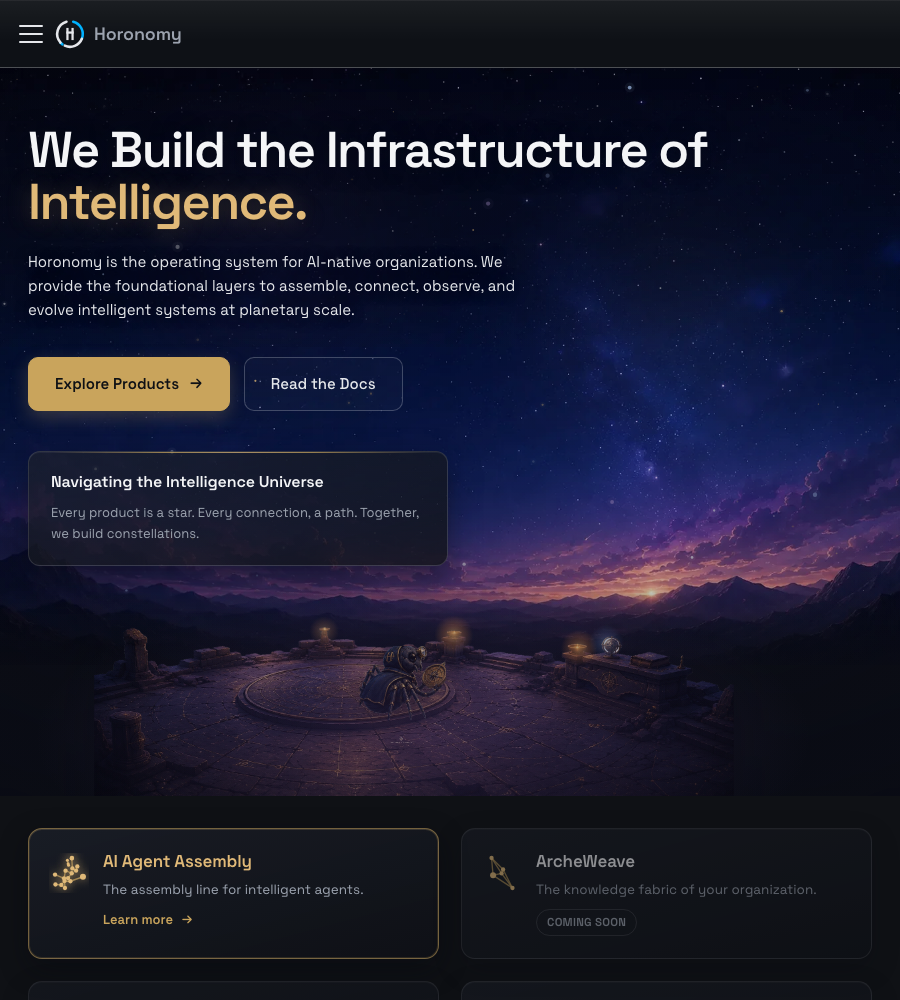
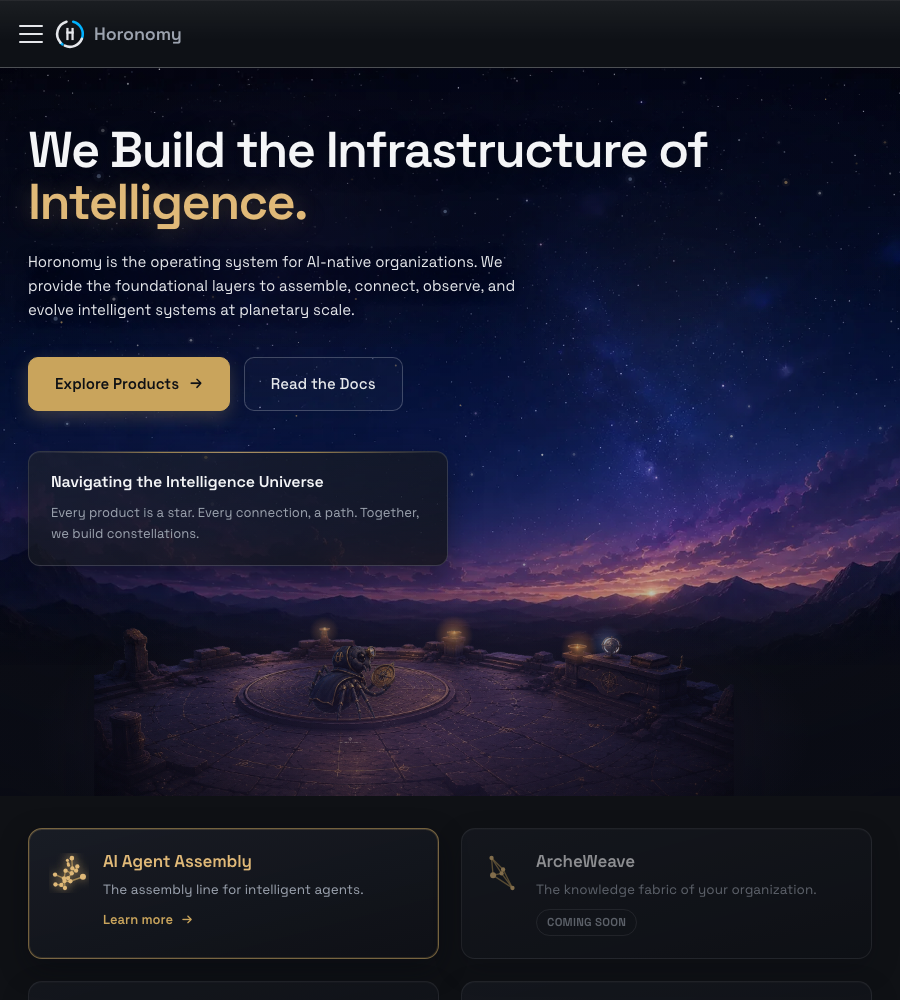
🐛 (hero): Keep the keeper centred on the terrace dais below desktop
The observer keeper used a fixed left:45% at ≤996px, but the terrace ground
image reframes there (left:46%, width:min(640px,118vw)), so the dais moved and
the keeper drifted onto its right edge (and off-centre at narrow widths). Track
the dais instead: left = calc(46% - min(60px, 11vw)), which reproduces the exact
desktop keeper↔ground relationship (f≈0.409) across the whole range. Verified
live at 375/600/900: the keeper sits centred on the platform, matching desktop;
0 horizontal overflow retained.

Claude-Session: https://claude.ai/code/session_01Dv3niEozAUHTET2z9JSob8

Changed region(s): [[0.3422, 0.651, 0.4978, 0.713]]

diff --git a/src/components/HeroUniverse/ObserverSpider.module.css b/src/components/HeroUniverse/ObserverSpider.module.css
@@ -41,14 +41,19 @@
 }
 
 @media (max-width: 996px) {
+  /* Track the terrace dais as the ground image reframes below the desktop
+     breakpoint. The dais centre = the ground's `left: 46%` anchor minus a
+     fixed fraction of the ground width (`min(640px, 118vw)`), so the keeper
+     stays centred on the platform across the whole range instead of drifting
+     onto its right edge. */
   .keeper {
-    left: 45%;
+    left: calc(46% - min(60px, 11vw));
     bottom: 6.5%;
     width: clamp(78px, 18vw, 124px);
   }
 
   .contactShadow {
-    left: 45%;
+    left: calc(46% - min(60px, 11vw));
     bottom: 6%;
     width: clamp(40px, 9vw, 64px);
   }
